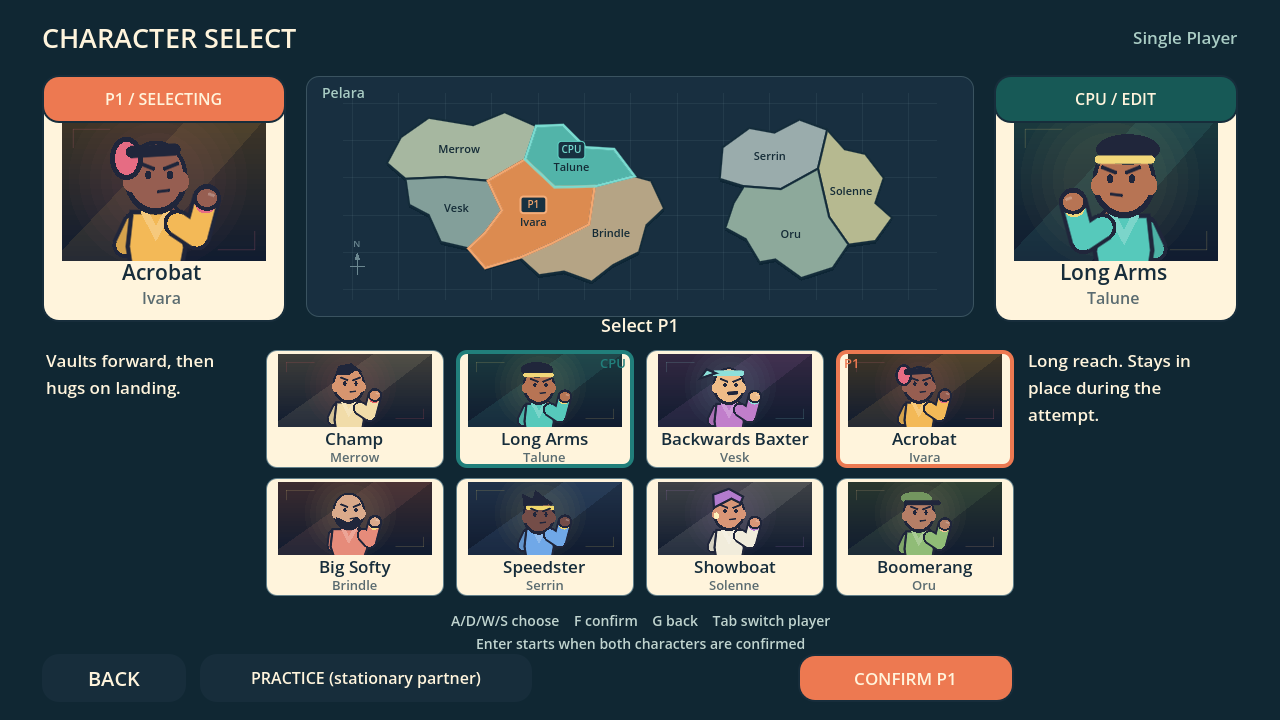
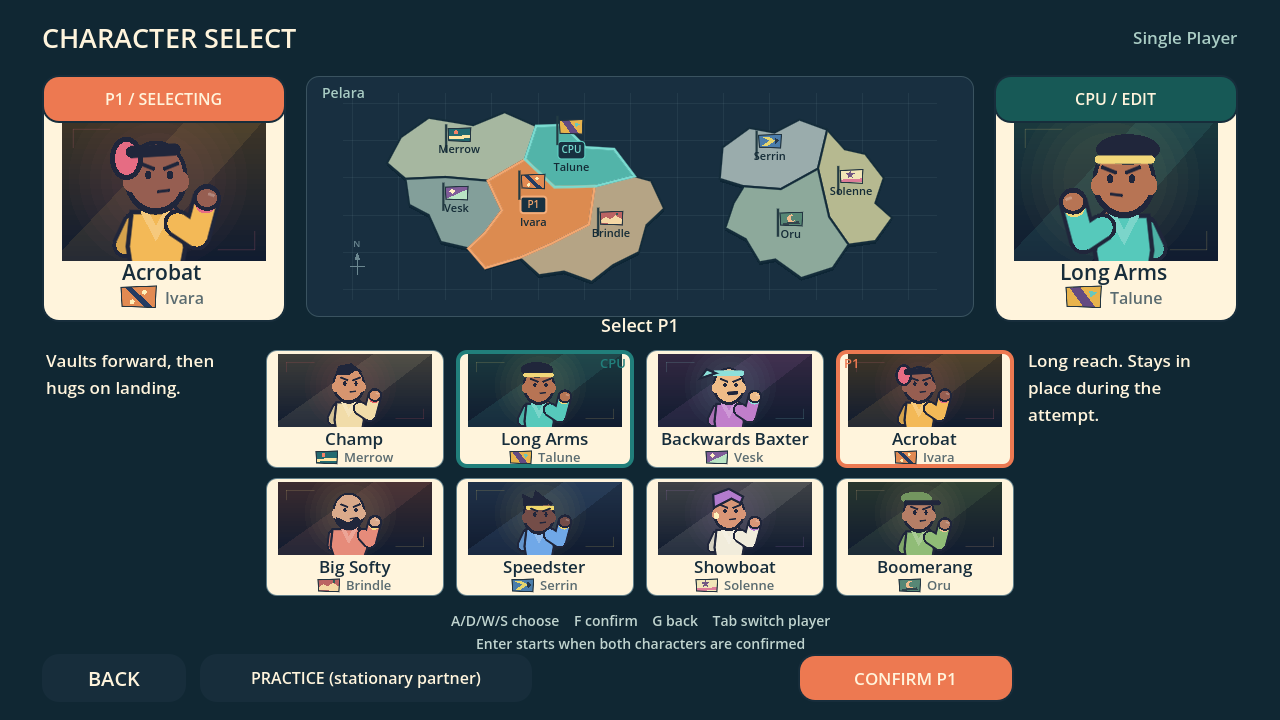
Add handmade fictional country flags to character selection

diff --git a/docs/SETUP_FLOW.md b/docs/SETUP_FLOW.md
@@ -10,7 +10,7 @@ The setup uses familiar fighting-game navigation with original artwork, fictiona
 4. Practice is a secondary option on the single-player character screen. It retains the stationary-partner rules.
 5. Pause/results can return to character select. A main-menu route allows changing modes.
 
-The portrait art is rendered from the same procedural character drawings used during matches. Country highlights and character cards use matching orange P1 and teal P2 colors. Mirror choices remain legal and both map markers must stay visible.
+The portrait art is rendered from the same procedural character drawings used during matches. Each country has a deliberately wonky original flag, reused beside country names in roster cards and previews and on flagpoles on the map. Country highlights and character cards use matching orange P1 and teal P2 colors. Mirror choices remain legal and both map markers must stay visible. Flags are drawn procedurally, with no image-generation requests.
 
 ## Pelara roster
 
